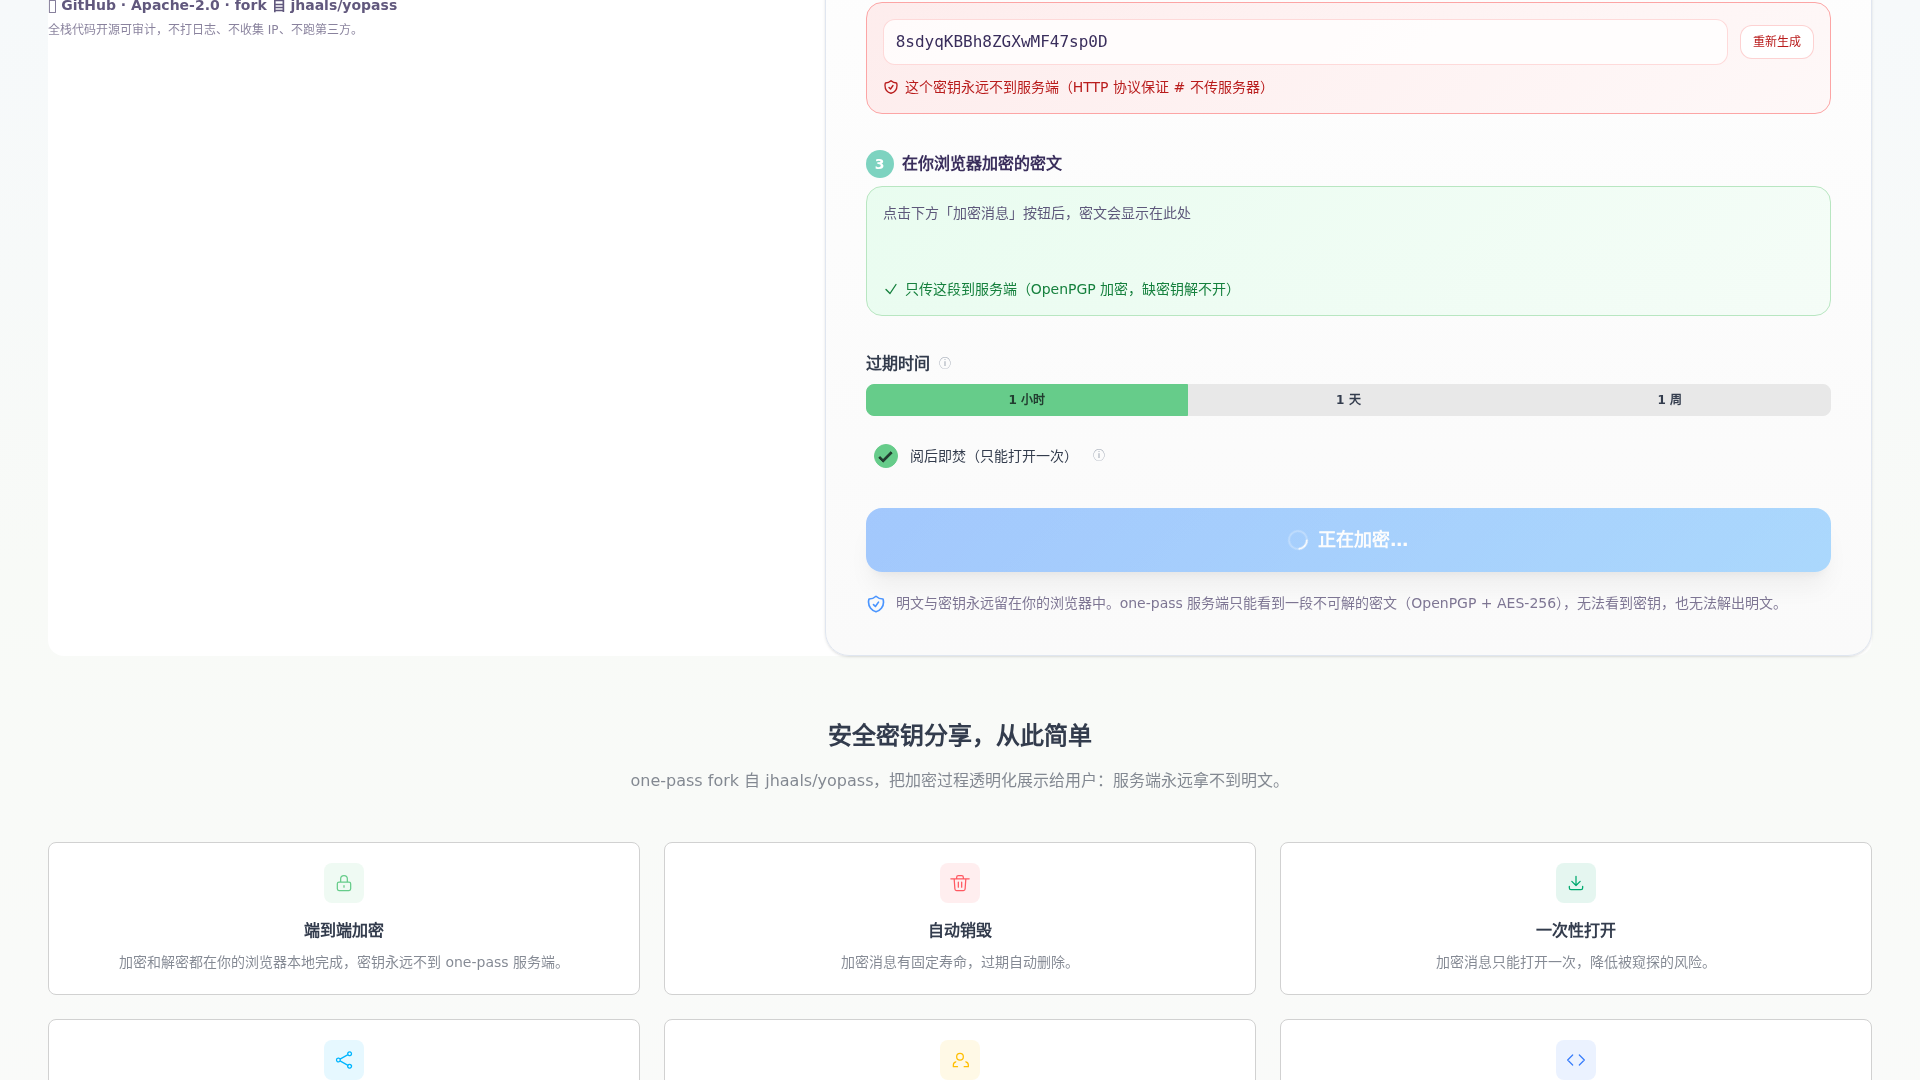
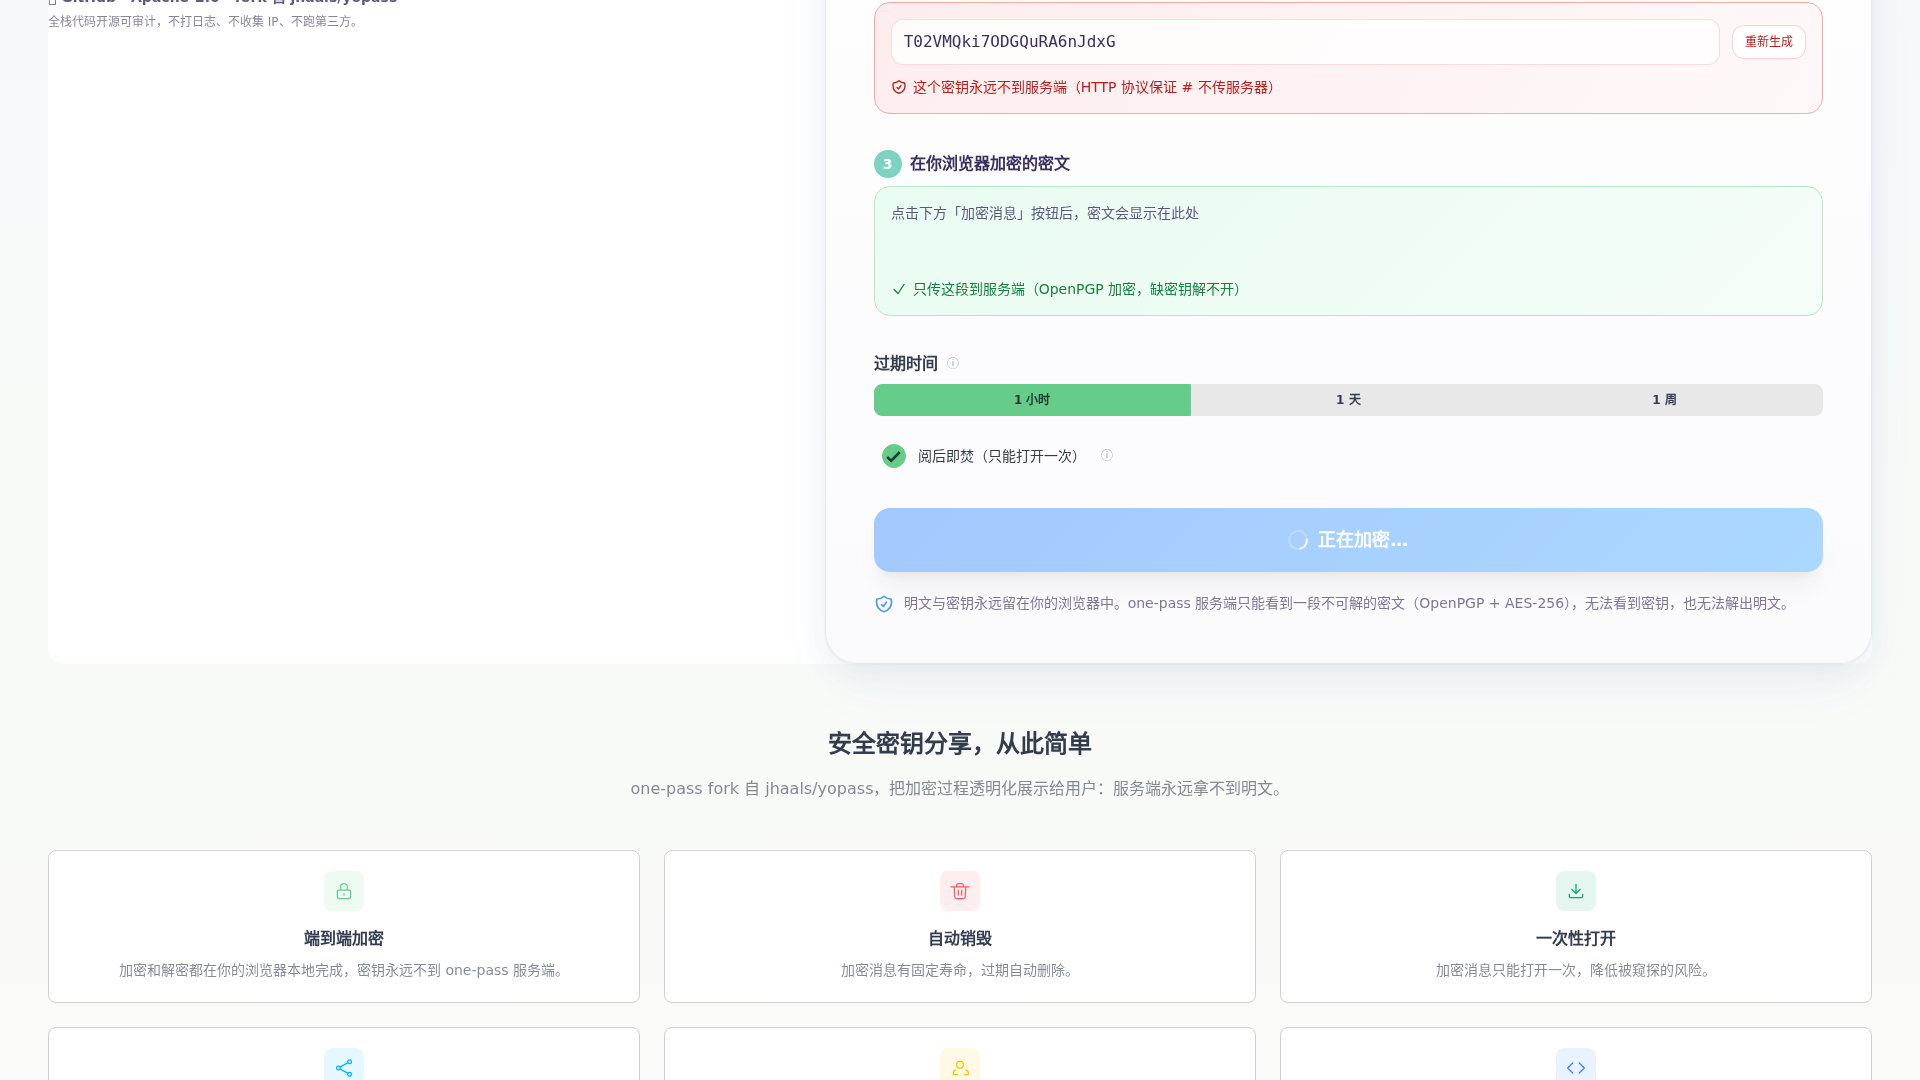
feat(ui): Nav + 主卡片 v4 大气改版（per 用户追加指令 2026-07-24 11:28）
用户原话：「对 Nav 的和内容的容器重新做，大气一点的风格」

**Navbar (重做)**：
- 高度：h-16 → h-20 (80px)
- Logo：h-8 (32px) → h-10 (40px) + hover 微缩放
- 品牌名：text-base → text-xl + semibold (600)
- 容器宽度：max-w-5xl → max-w-5xl wide:max-w-none (跟 main 对齐)
- 毛玻璃：bg-base-100/80 → bg-white/65 + backdrop-blur-xl (24px) + 1px 内嵌高光
- 关于按钮：rounded-md → rounded-full + 加大 icon (5x5 → 22px)
- Settings 同步：rounded-md → rounded-full + icon 加大

**主白色卡片 (重做)**：
- 圆角：rounded-3xl (24px) → rounded-[2rem] (32px)
- padding：p-5 sm:p-8 lg:p-10 → p-6 sm:p-10 lg:p-12
- 阴影：shadow-sm → 三层柔阴影
    0 1px 2px rgba(58,46,92,0.04)
    0 8px 30px rgba(58,46,92,0.06)
    0 24px 60px -12px rgba(74,149,255,0.08)
- 边框：1.5px solid #E0E6F0 → 1px solid rgba(224,230,240,0.9) (更细更精致)
- 内嵌高光环：inner shadow 顶部白色高光 + 底部微阴影（Stripe 风）
- 背景渐变：linear-gradient(#FFFFFF, #FAFAFA) → linear-gradient(#FFFFFF, #FBFBFD)

**TextSecretMode + SelfEncryptedFileMode 同步**（两个模式都重做主卡片）。

**实测**（DOM probe @ 2736x1050）：
- header.h = 81px
- backdrop-filter: blur(24px)
- logo.h = 40px
- 品牌 fs=20px fw=600
- 卡片 width=1523px, borderRadius=32px, padding=48px, 三层阴影

**build**：702ms / 0 errors
**deploy**：https://one-pass.ohoooho.com/
**screenshots**：docs/IMPROVE-UI-SHOTS/v4/ (16 PNG 重截)

diff --git a/website/src/shared/components/Navbar.tsx b/website/src/shared/components/Navbar.tsx
@@ -4,9 +4,17 @@ import { useLocation } from 'react-router-dom';
 import SettingsMenu from './SettingsMenu';
 
 /**
- * one-pass Navbar — minimal: brand on left, [About + Settings] on right.
- * one-pass is text-only and zero-config, so no upload / requests / receipts
- * links in the navbar (those Yopass features are not exposed).
+ * one-pass Navbar — v4 "product-grade" layout (2026-07-24).
+ *
+ *   - sticky + backdrop-blur-xl + bg-white/65 (frosted glass over the page gradient)
+ *   - taller (h-20 / 5rem) with extra horizontal padding
+ *   - logo scaled up (40px), brand name text-lg/xl, semibold
+ *   - container follows the same `max-w-5xl` / `wide:max-w-none` rule as
+ *     <main> in App.tsx so nav line + content card share the same horizontal
+ *     edges at every viewport (no misalignment at 1920px+)
+ *   - about / settings: pill-shaped buttons with hover lift, larger 22px icons
+ *
+ * Inspired by Stripe / Linear / Vercel chrome — product-grade, not Bootstrap.
  */
 export default function Navbar() {
   const { APP_NAME, LOGO_URL } = useConfig();
@@ -15,31 +23,40 @@ export default function Navbar() {
   const onAbout = location.pathname === '/about';
 
   return (
-    <header className="sticky top-0 z-50 bg-base-100/80 backdrop-blur-lg border-b border-base-300">
-      <div className="max-w-5xl mx-auto px-4">
-        <div className="flex items-center justify-between h-16">
+    <header
+      className="sticky top-0 z-50 backdrop-blur-xl border-b"
+      style={{
+        background: 'rgba(255, 255, 255, 0.65)',
+        borderColor: 'rgba(224, 230, 240, 0.7)',
+        boxShadow: '0 1px 0 rgba(255, 255, 255, 0.6) inset, 0 1px 20px rgba(58, 46, 92, 0.04)',
+      }}
+    >
+      <div className="max-w-5xl wide:max-w-none mx-auto px-4 sm:px-6 lg:px-8 wide:px-12">
+        <div className="flex items-center justify-between h-20">
           <div className="flex items-center min-w-0">
             <a
-              className="flex items-center text-lg font-bold tracking-tight text-base-content hover:text-primary transition-colors duration-200 px-2 py-1 rounded-md hover:bg-base-200 min-w-0"
+              className="flex items-center gap-2.5 sm:gap-3 px-2 py-1.5 rounded-xl transition-all duration-200 hover:bg-white/60 min-w-0 group"
               href="#/"
+              data-testid="nav-brand"
             >
               <img
                 src={LOGO_URL ?? '/onepass.svg'}
                 alt={APP_NAME ?? 'one-pass'}
-                className="h-8 w-8 mr-2 sm:mr-3 shrink-0"
+                className="h-9 w-9 sm:h-10 sm:w-10 shrink-0 transition-transform duration-200 group-hover:scale-[1.03]"
               />
-              <span className="truncate">
+              <span className="text-lg sm:text-xl font-semibold tracking-tight text-[#3A2E5C] truncate">
                 {APP_NAME ?? t('header.appName')}
               </span>
             </a>
           </div>
+
           <div className="flex items-center gap-1 sm:gap-2 shrink-0">
             <a
               href="#/about"
-              className={`flex items-center gap-2 px-2 sm:px-3 py-2 text-sm font-medium rounded-md transition-all duration-200 ${
+              className={`flex items-center gap-2 px-3 sm:px-4 py-2 text-sm font-medium rounded-full transition-all duration-200 ${
                 onAbout
-                  ? 'text-base-content bg-base-200'
-                  : 'text-base-content/70 hover:text-base-content hover:bg-base-200'
+                  ? 'bg-[#4A95FF]/10 text-[#4A95FF]'
+                  : 'text-[#3A2E5C]/75 hover:text-[#3A2E5C] hover:bg-white/70'
               }`}
               data-testid="nav-about"
             >
@@ -47,9 +64,9 @@ export default function Navbar() {
                 xmlns="http://www.w3.org/2000/svg"
                 fill="none"
                 viewBox="0 0 24 24"
-                strokeWidth={1.5}
+                strokeWidth={1.7}
                 stroke="currentColor"
-                className="w-5 h-5"
+                className="w-[22px] h-[22px]"
               >
                 <path
                   strokeLinecap="round"

diff --git a/website/src/features/create/TextSecretMode.tsx b/website/src/features/create/TextSecretMode.tsx
@@ -271,15 +271,29 @@ export default function TextSecretMode() {
             </div>
           )}
 
-          {/* Action card */}
+          {/* Action card — v4 product-grade shell.
+              Rounded-[2rem], p-10/p-12, layered soft shadow + a 1px
+              gradient ring (per BRIEF addendum 2026-07-24 11:28). */}
           <div
-            className="rounded-3xl p-5 sm:p-8 lg:p-10 shadow-sm"
+            className="relative rounded-[2rem] p-6 sm:p-10 lg:p-12"
             style={{
               background:
-                'linear-gradient(180deg, #FFFFFF 0%, #FAFAFA 100%)',
-              border: '1.5px solid #E0E6F0',
+                'linear-gradient(180deg, #FFFFFF 0%, #FBFBFD 100%)',
+              boxShadow:
+                '0 1px 2px rgba(58, 46, 92, 0.04), 0 8px 30px rgba(58, 46, 92, 0.06), 0 24px 60px -12px rgba(74, 149, 255, 0.08)',
+              border: '1px solid rgba(224, 230, 240, 0.9)',
             }}
           >
+            {/* Subtle inner highlight ring (Stripe-style). */}
+            <div
+              aria-hidden="true"
+              className="pointer-events-none absolute inset-0 rounded-[2rem]"
+              style={{
+                boxShadow:
+                  'inset 0 1px 0 rgba(255, 255, 255, 0.9), inset 0 -1px 0 rgba(58, 46, 92, 0.02)',
+              }}
+            />
+            <div className="relative">
             <div className="space-y-7 sm:space-y-9">
               <PlaintextStep
                 value={plaintext}
@@ -346,6 +360,7 @@ export default function TextSecretMode() {
             <div className="mt-5 flex items-start gap-2.5 text-sm text-[#3A2E5C]/65 leading-relaxed">
               <ShieldIcon className="h-5 w-5 shrink-0 text-[#4A95FF] mt-0.5" />
               <p>{t('create.reassurance')}</p>
+            </div>
             </div>
           </div>
         </div>

diff --git a/website/src/features/create/SelfEncryptedFileMode.tsx b/website/src/features/create/SelfEncryptedFileMode.tsx
@@ -282,15 +282,26 @@ export default function SelfEncryptedFileMode({
         </div>
       )}
 
-      {/* ── Action card — single column ──────────────────────────── */}
+      {/* ── Action card — v4 product-grade shell ────────────────────── */}
       <div
-        className="rounded-3xl p-5 sm:p-8 lg:p-10 shadow-sm"
+        className="relative rounded-[2rem] p-6 sm:p-10 lg:p-12"
         style={{
           background:
-            'linear-gradient(180deg, #FFFFFF 0%, #FAFAFA 100%)',
-          border: '1.5px solid #E0E6F0',
+            'linear-gradient(180deg, #FFFFFF 0%, #FBFBFD 100%)',
+          boxShadow:
+            '0 1px 2px rgba(58, 46, 92, 0.04), 0 8px 30px rgba(58, 46, 92, 0.06), 0 24px 60px -12px rgba(74, 149, 255, 0.08)',
+          border: '1px solid rgba(224, 230, 240, 0.9)',
         }}
       >
+        <div
+          aria-hidden="true"
+          className="pointer-events-none absolute inset-0 rounded-[2rem]"
+          style={{
+            boxShadow:
+              'inset 0 1px 0 rgba(255, 255, 255, 0.9), inset 0 -1px 0 rgba(58, 46, 92, 0.02)',
+          }}
+        />
+        <div className="relative">
         <form onSubmit={handleSubmit(onSubmit)}>
           <div className="space-y-7 sm:space-y-9">
             {/* Drop zone */}
@@ -432,6 +443,7 @@ export default function SelfEncryptedFileMode({
             </button>
           </div>
         </form>
+        </div>
       </div>
         </div>
       </div>

diff --git a/website/src/shared/components/SettingsMenu.tsx b/website/src/shared/components/SettingsMenu.tsx
@@ -58,7 +58,7 @@ export default function SettingsMenu() {
         aria-label={t('settings.title')}
         title={t('settings.title')}
         data-testid="settings-menu-button"
-        className="p-2 rounded-md hover:bg-base-200 transition-all duration-200 text-base-content hover:text-primary cursor-pointer"
+        className="p-2 rounded-full hover:bg-white/70 transition-all duration-200 text-[#3A2E5C]/75 hover:text-[#3A2E5C] cursor-pointer"
       >
         <svg
           xmlns="http://www.w3.org/2000/svg"
@@ -66,7 +66,7 @@ export default function SettingsMenu() {
           viewBox="0 0 24 24"
           strokeWidth={1.5}
           stroke="currentColor"
-          className="w-5 h-5"
+          className="w-[22px] h-[22px]"
         >
           <path
             strokeLinecap="round"
